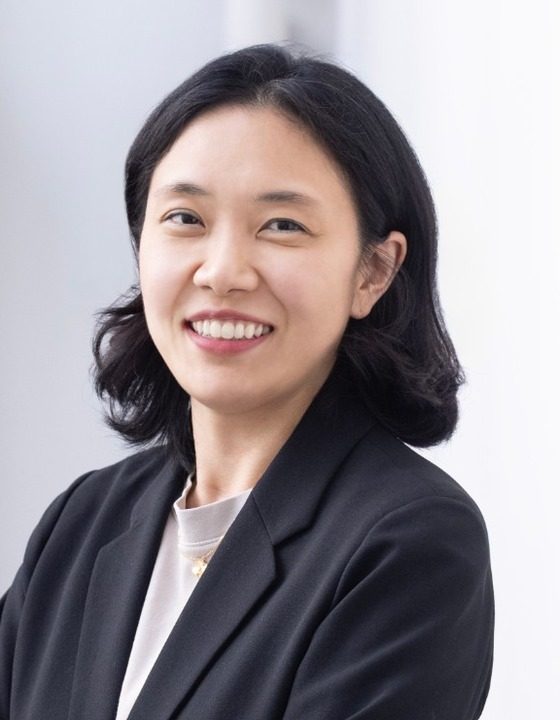
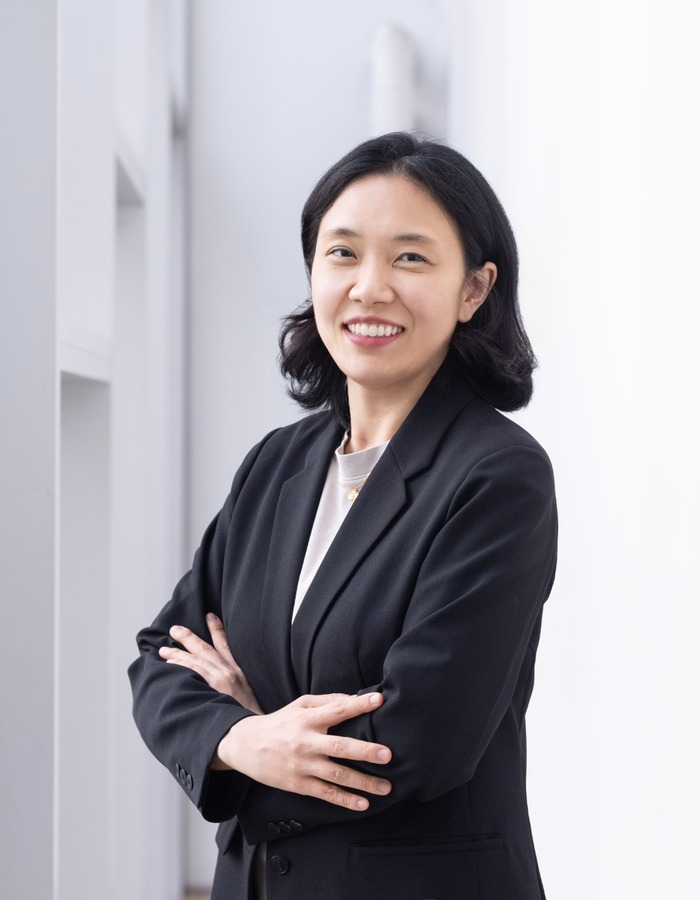
Show PI photo uncropped and in member-style layout
Keep the full body height (only side background trimmed), place photo left
and CV right like other members, with a slightly larger photo for the PI.

Claude-Session: https://claude.ai/code/session_0148EsD25FR48EyawrRCSpoY

diff --git a/index.html b/index.html
@@ -85,6 +85,16 @@
         width: 200px;
         flex-shrink: 0;
     }
+    .pi-image {
+        width: 240px;
+    }
+    .member-description.pi-cv {
+        font-size: 10.5pt;
+        line-height: 1.45;
+    }
+    .pi-cv div {
+        margin-bottom: 4px;
+    }
     .member-info {
         text-align: left;
         flex-grow: 1;
@@ -121,23 +131,26 @@
     </div>
 	
     <nav class="text">	
-<img src="yijunkim.jpg" style="display: block; margin: 0 auto; width:200px;">  <!--  height:300px; -->
-<p style="text-align:center;">
-Yi-Jun Kim, MD, PhD<br>
-Principal Investigator<br></p>
-<pre>
-2022–Present: Assistant & Associate Professor, Department of Environmental Medicine, Ewha Womans University School of Medicine
-2021–2022: Visiting Researcher, Evergrande Immunity Center, Brigham and Women’s Hospital, Harvard Medical School  
-2020–2022: Clinical Assistant Professor, Convergence Medicine Research Center, Ewha Womans University Mokdong Hospital  
-2018–2020: Research Assistant Professor, Center for Precision Medicine, Seoul National University Hospital  
-2017–2018: Clinical Fellow, Department of Radiation Oncology, Seoul National University Hospital  
-2016–2017: Clinical Fellow, Department of Radiation Oncology, Ewha Womans University Mokdong Hospital  
-2012–2016: Resident, Department of Radiation Oncology, Ewha Womans University Mokdong Hospital  
-2010–2011: Intern, Ewha Womans University Mokdong Hospital  
-2004–2010: Doctor of Medicine (MD), Ewha Womans University College of Medicine  
-2003–2004: College of Pharmacy, Seoul National University  
-Board-certified Radiation Oncologist 
-</pre>
+<div class="member-container">
+        <img src="yijunkim.jpg" class="member-image pi-image">
+        <div class="member-info">
+            <div class="member-name">Yi-Jun Kim, MD, PhD</div>
+            <div class="member-title">Principal Investigator</div>
+            <div class="member-description pi-cv">
+                <div>2022–Present: Assistant & Associate Professor, Department of Environmental Medicine, Ewha Womans University School of Medicine</div>
+                <div>2021–2022: Visiting Researcher, Evergrande Immunity Center, Brigham and Women’s Hospital, Harvard Medical School</div>
+                <div>2020–2022: Clinical Assistant Professor, Convergence Medicine Research Center, Ewha Womans University Mokdong Hospital</div>
+                <div>2018–2020: Research Assistant Professor, Center for Precision Medicine, Seoul National University Hospital</div>
+                <div>2017–2018: Clinical Fellow, Department of Radiation Oncology, Seoul National University Hospital</div>
+                <div>2016–2017: Clinical Fellow, Department of Radiation Oncology, Ewha Womans University Mokdong Hospital</div>
+                <div>2012–2016: Resident, Department of Radiation Oncology, Ewha Womans University Mokdong Hospital</div>
+                <div>2010–2011: Intern, Ewha Womans University Mokdong Hospital</div>
+                <div>2004–2010: Doctor of Medicine (MD), Ewha Womans University College of Medicine</div>
+                <div>2003–2004: College of Pharmacy, Seoul National University</div>
+                <div>Board-certified Radiation Oncologist</div>
+            </div>
+        </div>
+ </div>
 
 </br>	
  <div class="member-container">
